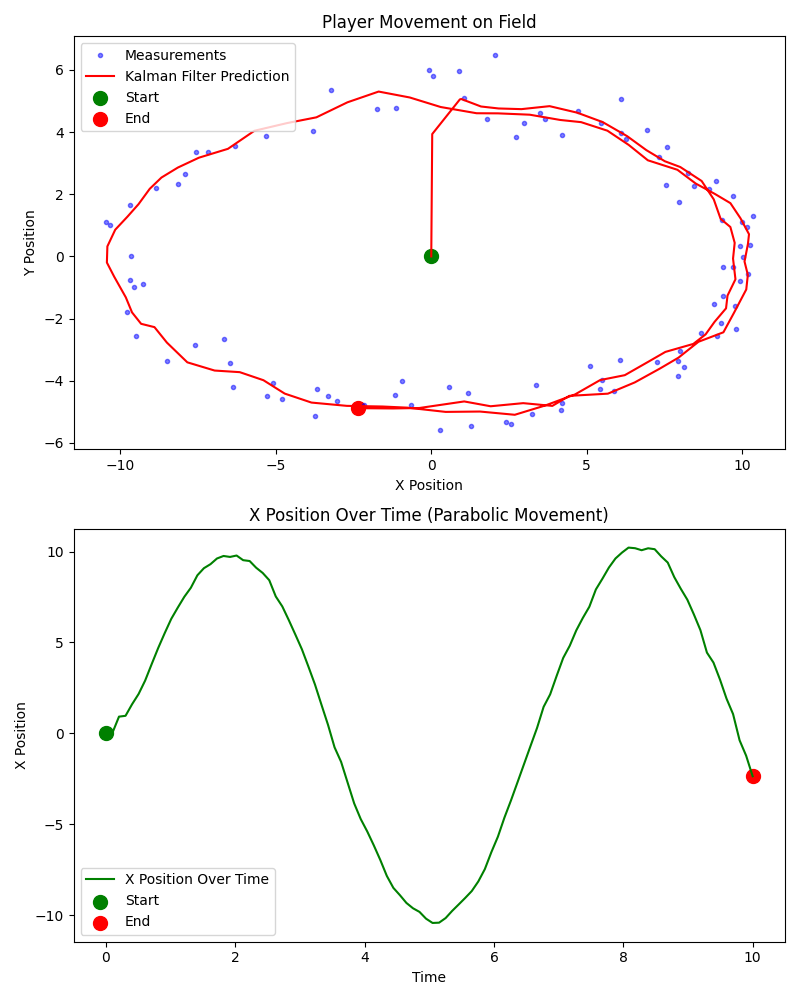
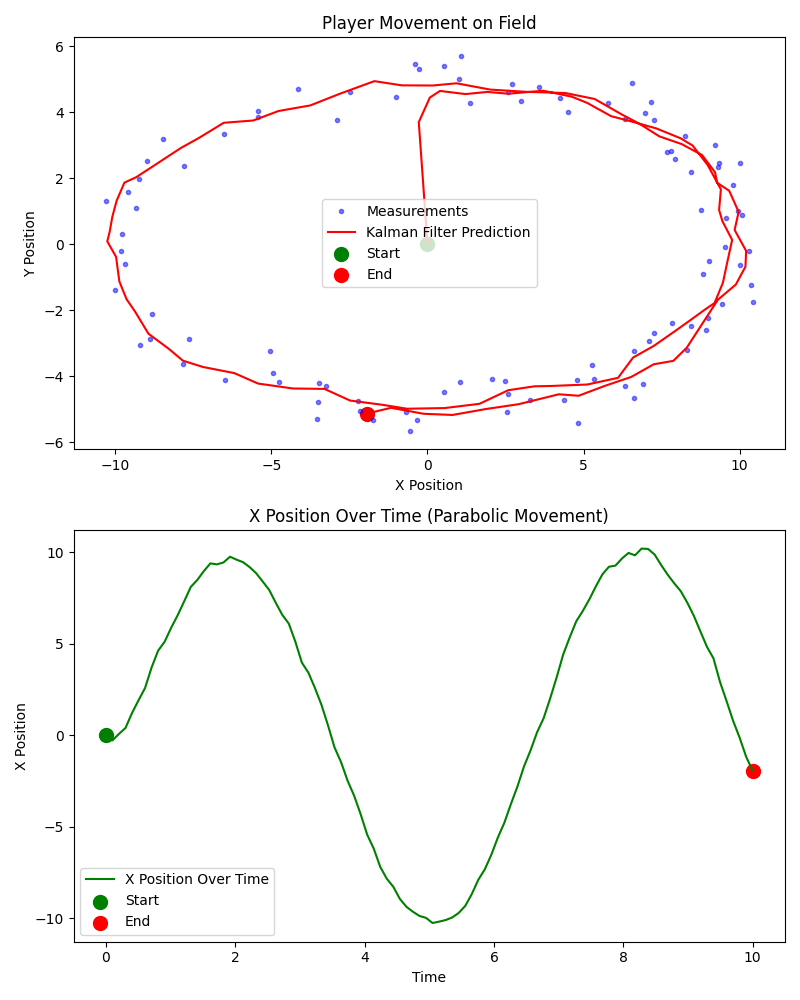
Modified kalmanfilter to calculate predictions with accelerationa and deacceleration

diff --git a/kalman-filter.py b/kalman-filter.py
@@ -2,58 +2,71 @@ import numpy as np
 import matplotlib.pyplot as plt
 import os
 
-class KalmanFilter(object):
-    def __init__(self, F=None, B=None, H=None, Q=None, R=None, P=None, x0=None):
-        if F is None or H is None:
-            raise ValueError("Set proper system dynamics.")
-        
-        self.n = F.shape[1]
-        self.m = H.shape[1]
-        
-        self.F = F
-        self.H = H
-        self.B = 0 if B is None else B
-        self.Q = np.eye(self.n) if Q is None else Q
-        self.R = np.eye(self.m) if R is None else R
-        self.P = np.eye(self.n) if P is None else P
-        self.x = np.zeros((self.n, 1)) if x0 is None else x0
+class KalmanFilter:
+    def __init__(self, F, H, Q, R, P=None, x0=None):
+        self.n = F.shape[1]  # Number of state variables
+        self.m = H.shape[1]  # Number of measurement variables
 
-    def predict(self, u=0):
-        self.x = np.dot(self.F, self.x) + np.dot(self.B, u)
-        self.P = np.dot(np.dot(self.F, self.P), self.F.T) + self.Q
+        self.F = F  # State transition model
+        self.H = H  # Measurement model
+        self.Q = Q  # Process noise covariance
+        self.R = R  # Measurement noise covariance
+        self.P = np.eye(self.n) if P is None else P  # Initial covariance
+        self.x = np.zeros((self.n, 1)) if x0 is None else x0  # Initial state
+
+    def predict(self):
+        self.x = np.dot(self.F, self.x)  # Predict state
+        self.P = np.dot(np.dot(self.F, self.P), self.F.T) + self.Q  # Predict uncertainty
         return self.x
 
     def update(self, z):
-        y = z - np.dot(self.H, self.x)
-        S = self.R + np.dot(self.H, np.dot(self.P, self.H.T))
-        K = np.dot(np.dot(self.P, self.H.T), np.linalg.inv(S))
-        self.x = self.x + np.dot(K, y)
+        y = z - np.dot(self.H, self.x)  # Measurement residual
+        S = self.R + np.dot(self.H, np.dot(self.P, self.H.T))  # Residual covariance
+        K = np.dot(np.dot(self.P, self.H.T), np.linalg.inv(S))  # Kalman Gain
+
+        self.x = self.x + np.dot(K, y)  # Update state
         I = np.eye(self.n)
-        self.P = np.dot(np.dot(I - np.dot(K, self.H), self.P), 
-                         (I - np.dot(K, self.H)).T) + np.dot(np.dot(K, self.R), K.T)
+        self.P = (I - np.dot(K, self.H)) @ self.P  # Update uncertainty
+
 
 def example():
-    dt = 1.0 / 60
-    F = np.array([[1, dt, 0, 0, 0], [0, 1, dt, 0, 0], [0, 0, 1, 0, 0], [0, 0, 0, 1, dt], [0, 0, 0, 0, 1]])
-    H = np.array([[1, 0, 0, 0, 0], [0, 0, 0, 1, 0]])
-    Q = np.eye(5) * 0.05
-    R = np.eye(2) * 0.5
+    dt = 1.0 / 60  # Time step (60 FPS)
+    
+    # Extended State: [x, vx, ax, y, vy, ay] (Position, Velocity, Acceleration)
+    F = np.array([
+        [1, dt, 0.5 * dt**2, 0,  0,  0],  # X position update
+        [0, 1,  dt,           0,  0,  0],  # X velocity update
+        [0, 0,  1,            0,  0,  0],  # X acceleration update
+        [0, 0,  0,            1, dt, 0.5 * dt**2],  # Y position update
+        [0, 0,  0,            0, 1,  dt],  # Y velocity update
+        [0, 0,  0,            0, 0,  1]   # Y acceleration update
+    ])
+    
+    H = np.array([
+        [1, 0, 0, 0, 0, 0],  # We measure only X position
+        [0, 0, 0, 1, 0, 0]   # We measure only Y position
+    ])
 
-    time = np.linspace(0, 10, 100)
-    x_positions = np.sin(time) * 10  # Simulating left to right movement
-    y_positions = np.cos(time) * 5   # Simulating slight vertical movement
+    Q = np.eye(6) * 0.1  # Process noise (tuned for smoothness)
+    R = np.eye(2) * 0.5  # Measurement noise
+
+    # Simulate a nonlinear movement (player accelerating, then turning)
+    time = np.linspace(0, 20, 100)
+    x_positions = np.sin(time) * 10 + 0.5 * time**2  # X: Sin wave + acceleration
+    y_positions = np.cos(time) * 5 + 2 * time       # Y: Curve with upward motion
     measurements = np.vstack((x_positions, y_positions)) + np.random.normal(0, 0.5, (2, 100))
 
     kf = KalmanFilter(F=F, H=H, Q=Q, R=R)
     predictions = []
 
     for z in measurements.T:
-        pred = np.dot(H, kf.predict()).flatten()
+        pred = np.dot(H, kf.predict()).flatten()  # Predict position
         predictions.append(pred)
-        kf.update(z.reshape(2, 1))
+        kf.update(z.reshape(2, 1))  # Update with measurement
 
     predictions = np.array(predictions)
     
+    # Plot results
     fig, axs = plt.subplots(2, 1, figsize=(8, 10))
     
     axs[0].plot(measurements[0], measurements[1], 'bo', markersize=3, alpha=0.5, label='Measurements')
@@ -63,23 +76,23 @@ def example():
     axs[0].set_xlabel("X Position")
     axs[0].set_ylabel("Y Position")
     axs[0].legend()
-    axs[0].set_title("Player Movement on Field")
-    
+    axs[0].set_title("Player Movement on Field with Acceleration")
+
     axs[1].plot(time, predictions[:, 0], 'g-', label='X Position Over Time')
     axs[1].scatter(time[0], predictions[0, 0], color='green', s=100, label='Start')
     axs[1].scatter(time[-1], predictions[-1, 0], color='red', s=100, label='End')
     axs[1].set_xlabel("Time")
     axs[1].set_ylabel("X Position")
     axs[1].legend()
-    axs[1].set_title("X Position Over Time (Parabolic Movement)")
-    
+    axs[1].set_title("X Position Over Time (With Acceleration)")
+
     plt.tight_layout()
     
     output_folder = "output_images"
     if not os.path.exists(output_folder):
         os.makedirs(output_folder)
     
-    plt.savefig(os.path.join(output_folder, "kalman_filter_graph.png"))
+    plt.savefig(os.path.join(output_folder, "kalman_filter_acceleration.png"))
     plt.show()
 
 if __name__ == '__main__':
